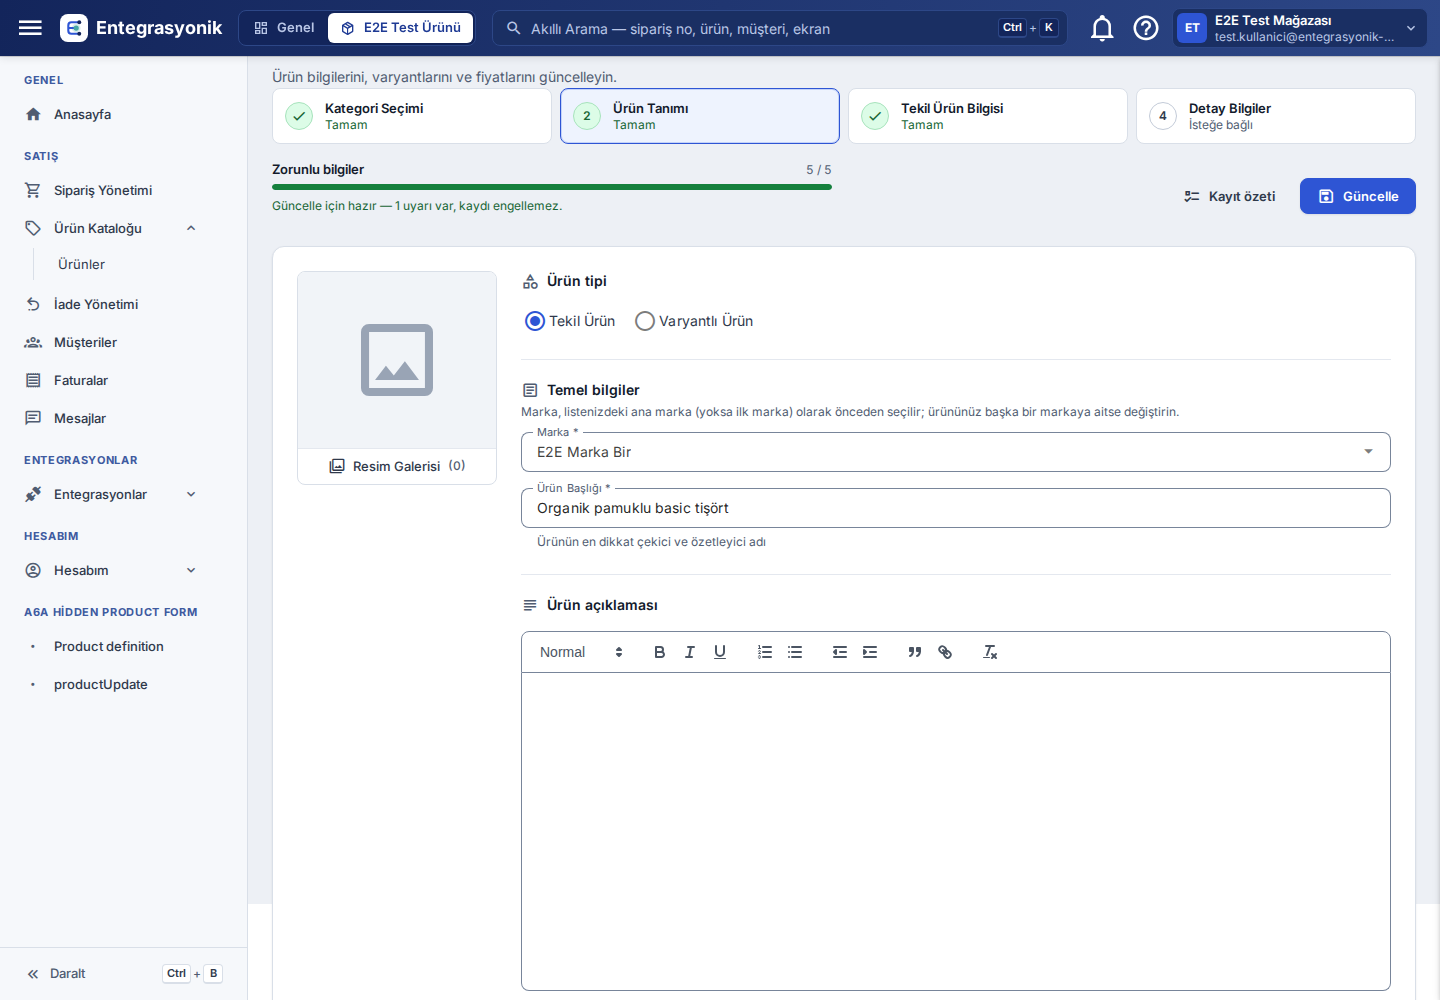
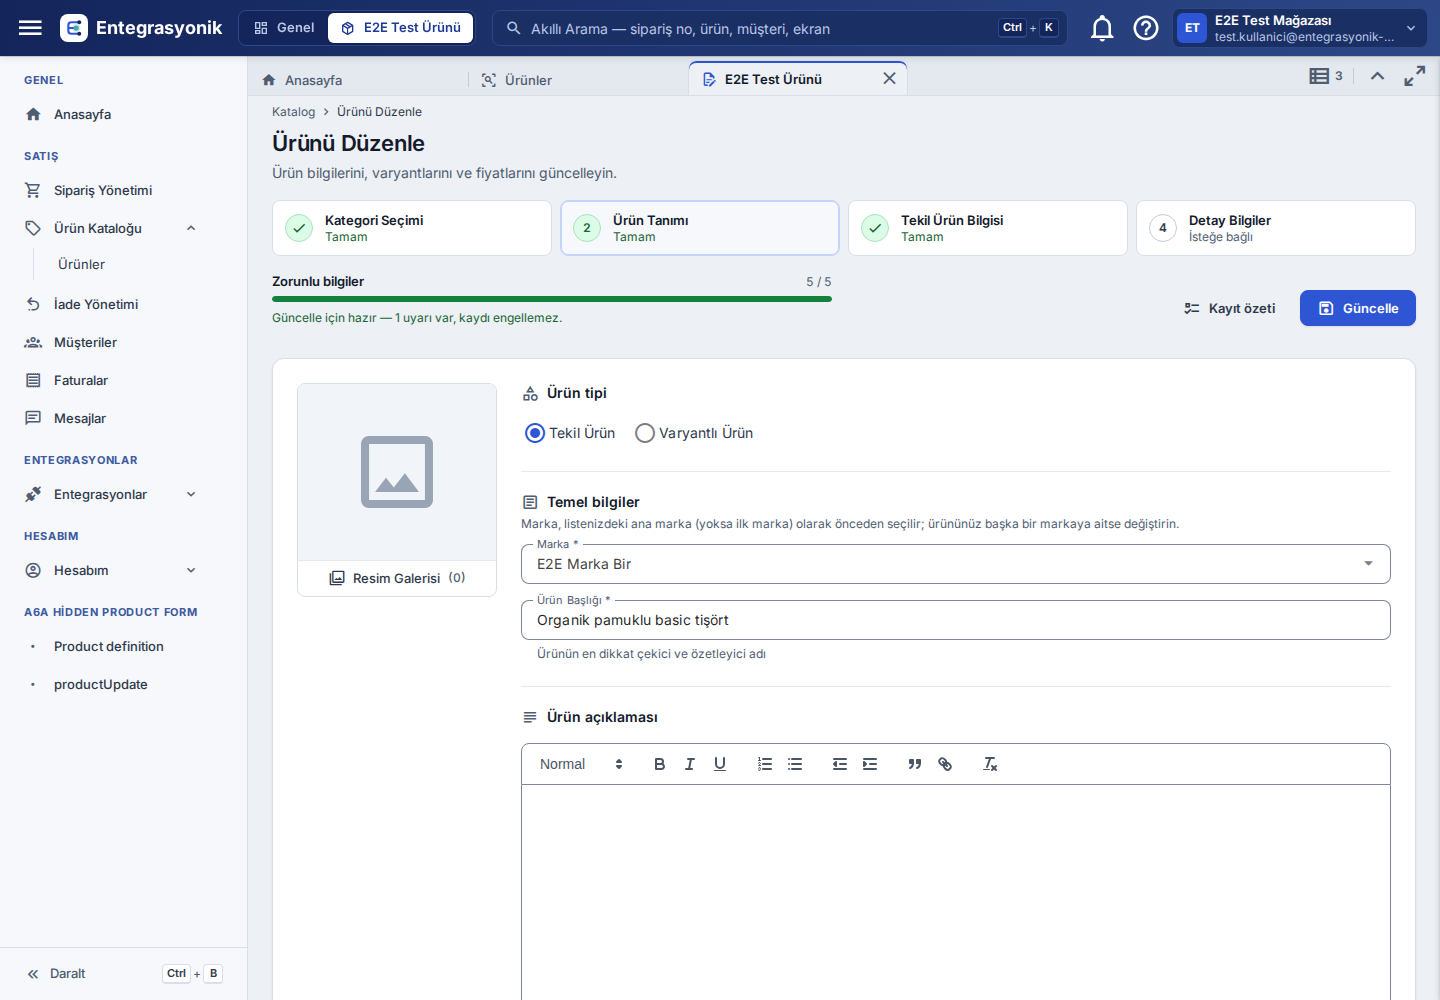
faz3-dsv2-a6a-cloud: PRODUCT_FORM_PROPOSAL.md (envanter, sorunlar, oneri, A/B listeleri) + after goruntuleri 1440/390
Claude-Session: https://claude.ai/code/session_01WVbHza8DFAhXnYiDkb74cn

diff --git a/frontend/docs/PRODUCT_FORM_PROPOSAL.md b/frontend/docs/PRODUCT_FORM_PROPOSAL.md
@@ -1,0 +1,169 @@
+# Ürün ekleme/düzenleme akışı: envanter, sorunlar, öneri (A6a — `productform`)
+
+Tarih: 2026-09-30 · Kapsam: `ProductDefinitionView` (ekleme), `ProductUpdateView` (düzenleme) ve altındaki adım bileşenleri.
+Yöntem: yalnız kod okuması (`frontend/src`, `backend/src` salt-okur) + Playwright ile alınan ekran görüntüleri.
+Backend'de görülmeyen/doğrulanmayan hiçbir şey "var" diye yazılmadı; belirsiz olanlar "doğrulanmadı" diye işaretlidir.
+
+Görüntüler (`frontend/docs/a6a-review/productform-<durum>-{before|after}-{1440|390}.png`):
+`ekle-kategori`, `ekle-tanim`, `ekle-tekil`, `ekle-detay`, `ekle-eksikler` (kaydet öncesi eksikler), `duzenle-acilis`, `duzenle-tanim`, `kanal-fiyatlari`.
+
+---
+
+## 1. Mevcut durum (değişiklikten önce)
+
+Akış: 4 adımlı `v-stepper` — **Kategori Seçimi → Ürün Tanımı → Tekil Ürün Bilgisi / Varyant Bilgileri → Detay Bilgiler**; Kaydet (düzenlemede Güncelle) düğmesi stepper başlığının sağında.
+
+- **Kilitler** (`editable`): 2. adım kategori ister; 3. adım `title.length > 3` (+ varyantlıda `maincode`); 4. adım `title.length > 2`. Form kuralı ise başlık için 2–160 karakter der — üç eşik birbirini tutmuyordu.
+- **Kaydet koşulu** (`isSaveDisabled`/`isUpdateDisabled`): `category && brand && variants.length>0 && her varyantta barcode+stockcode`. Neden kapalı olduğu hiçbir yerde yazmıyordu. Başlık, varyantlıda ana kod ve yinelenen kod bu koşulda yoktu; arka uç ise `Products.title` ve `Products.maincode` için `required`, `Variants.stockcode` için `required + unique`, `barcode` için `unique` diyor (bkz. §3).
+- **Kaydetme uçları:** ekleme `ProductService/saveProduct` (gövde: `{ productInfo }`, `images` çıkarılır; tekil üründe `maincode` istemcide üretilir, `variants[0].images = images.map(url)`), düzenleme `ProductService/updateProduct` (`{ productInfo }`; sonra `retrieveProduct`'tan gelen ürünle form yenilenir). Gövde şekli `e2e/specs/product-form-bodies.spec.ts` ile sabitlenmiştir ve **değişmedi**.
+- **Görsel dil:** `v-stepper` başlığı 390px'te taşıyordu: "Seçimi", "Tekil Ürün Bilgis…" kırpılıyor, **Kaydet düğmesi ekran dışında** kalıyordu (`ekle-eksikler-before-390.png`).
+
+---
+
+## 2. Alan envanteri
+
+Kısaltmalar: **Form** = arayüzdeki doğrulama kuralı (`composables/formrules.ts`) / Kaydet koşulu; **AU** = arka uç (şema `required`/`unique`, servis, kanal dönüştürücüsü). `Kanal` sütunu: genel = kanaldan bağımsız ürün verisi.
+
+### 2.1 Ürün düzeyi
+
+| # | Etiket | Model yolu | Adım / bileşen | Kanal | Zorunluluk — Form | Zorunluluk — AU | AU'da nereye |
+|---|---|---|---|---|---|---|---|
+| 1 | Ürün kategorisi (yaprak) | `productInfoForm.category` | 1 · `CategorySelectBoxLevelComponent` | genel (kanal kategorisi buradan türer) | Kaydet koşulunda; klasör seçilirse `undefined` olur | şemada `required:false` | `ProductService.saveProduct/updateProduct` → `Products.category` (`$set`) |
+| 2 | Ürün tipi (Tekil/Varyantlı) | `hasVariant` | 2 · `ProductInfoFormComponent` | genel | varsayılan Tekil; değişince `variants` sıfırlanır (ekleme) | şemada alan yok (`strict:false`); `updateProduct`: varyantlıda `stockcode/barcode = undefined`, tekilde `variants[0]`'dan | `Products.hasVariant` |
+| 3 | Ana kod | `maincode` | 2 (yalnız varyantlı) | genel | `stockcodeRules`: zorunlu, 2–32, `maxlength 32` | `Products.maincode` `required + unique`; `Variants.maincode` `required` | `Products.maincode`; her varyanta `maincode` kopyalanır. Tekilde ekleme ekranı kayıtta üretir |
+| 4 | Marka | `brand` | 2 · `BrandSelectBoxComponent` (`mandatory`) | genel (kanal marka eşleşmesi ayrı) | zorunlu; **bileşen ana markayı (yoksa ilk markayı) kendisi seçer** | `required:false` | `Products.brand` |
+| 5 | Ürün Başlığı | `title` | 2 | genel; kanalda `platforms[kod].mapping.title` ile ezilebilir | `titleRules`: zorunlu, 2–160 | `Products.title` `required` | `Products.title` |
+| 6 | Ürün açıklaması | `description` (HTML) | 2 · Quill | genel; kanalda `mapping.description` (arayüzü yok) | yok | `required:false` | `Products.description` |
+| 7 | Resim galerisi | `images` (sunucuda `Images`, `tempId`/`_id` ile) | 2 · `ProductImagesComponent` | genel | yok | yok | `ImageService`; `saveProduct` gövdesinden `images` çıkarılır; `updateProduct` geçici resimleri kalıcıya kopyalar (`copyTempImages`) |
+| 8 | Maksimum Satış Adedi | `maxPurchaseQuantity` | 4 · `ProductDetailsComponent` | genel | `length_0_16`, isteğe bağlı | şemada yok; dönüştürücülerde **okunmuyor** (grep) | `Products` (`strict:false`) |
+| 9 | Kargo Süresi | `shippingDuration` | 4 | genel | isteğe bağlı | şemada yok; dönüştürücülerde **okunmuyor** | aynı |
+| 10 | Desi | `desi` | 4 | genel; kanalda `mapping.desi` | isteğe bağlı | `Number`, varsayılan 0; Trendyol/Hepsiburada/Ideasoft okur | `Products.desi` |
+| 11 | Garanti Süresi | `warranty` | 4 | genel; kanalda `mapping.warranty` | isteğe bağlı | **şema alanı `warrantyDuration`** (varsayılan 0); Hepsiburada/Ideasoft `product.warranty` okur | `Products.warranty` (şema dışı) |
+| 12 | KDV | `taxPercentage` | 4 | genel; kanalda `mapping.taxPercentage` | 1–29 listesi | `Number`; tüm dönüştürücüler okur (varsayılan 20/18) | `Products.taxPercentage` |
+| — | (gövdede giden, arayüzü olmayan) | `tempId`, `prices.{costPrice,price,salePrice,marketPrice,manuelPricesFlag,competitivePricesFlag,competitive}`, `stock`, `shelf`, `prepDuration`, `warrantyDuration`, `subtitle`, `invoiceTitle` | — | — | — | `prices` şemada `{minSalePrice,maxSalePrice}`; `saveProduct` sonunda `updateProductStockAndPrices` bunu varyantlardan yeniden yazar | — |
+
+### 2.2 Varyant düzeyi — tekil ürün (`ProductSingleVariantComponent`, adım 3)
+
+| # | Etiket | Model yolu | Kanal | Form | AU | AU'da nereye |
+|---|---|---|---|---|---|---|
+| 13 | Stok Kodu | `variants[0].stockcode` | genel | `titleRules` (zorunlu, 2–160) + Kaydet koşulu | `Variants.stockcode` `required + unique(sparse)` | `Variants.stockcode`; ürüne `stockcode` kopyalanır (tekil) |
+| 14 | Barkod | `variants[0].barcode` | genel; Trendyol doğrulaması "Barkod eksik" der | `titleRules` + Kaydet koşulu | `unique(sparse)`, `required:false` | `Variants.barcode`; ürüne kopyalanır |
+| 15 | Satış Fiyatı | `variants[0].prices.salePrice` | genel; Trendyol: `> 0` ve `≤ piyasa fiyatı` | `mandatoryRule` (0 geçer) | `prices.salePrice` `required`, varsayılan 0 | `Variants.prices` |
+| 16 | Piyasa Fiyatı | `variants[0].prices.marketPrice` | genel | `mandatoryRule` (0 geçer) | `required`, varsayılan 0 | aynı |
+| 17 | Platform Bazında Fiyat | `prices.isPlatformBasedPrice`; `platforms[kod].prices.{salePrice,marketPrice}` (`PlatformPriceComponent`) | pazaryerleri + e-ticaret | `mandatoryRule` (0 geçer) | dönüştürücüler `platforms[kod].prices \|\| prices` kullanır; ürün min/max fiyatı buradan hesaplanır | `Variants.platforms` |
+| 18 | Stok Adedi | `variants[0].stock` | genel | **eski kural 2–160 karakter (yanlış)**; şimdi zorunlu + rakam | `default 0`; Trendyol: `< 0` reddedilir | `Variants.stock`; `Products.stock` toplam |
+| 19 | Raf | `variants[0].shelf` | genel | isteğe bağlı (**eski kural zorunluydu**) | varyant şemasında yok (`strict:false`) | `Variants.shelf` |
+| 20 | Ürün Özellikleri (düğme) | `variants[i].platforms[kod].attributes[özellikId] = { attributeName, attributeValue, attributeValueId }` | kanal-özel (Trendyol · Hepsiburada · N11 · Pazarama · Ideasoft) | kanal API'sinden gelen "Zorunlu" işareti; kaydı engellemez. Kayıtta `checkVariantAttributes` geçersiz değerleri siler | eksik zorunlu özellik kanal gönderiminde reddedilir (kanal API'si) | `Variants.platforms.<kod>.attributes` |
+
+### 2.3 Varyantlı ürün (`ProductVariantsComponent` — okundu, dokunulmadı)
+
+| # | Alan / işlem | Model yolu | Not |
+|---|---|---|---|
+| 21 | Varyant üretici | `variants[i].choices = [{ choiceId, choiceValueId }]` | kombinasyonlar kartezyen çarpımla; `variantHash` sunucuda (`maincode + choices`) — `unique` |
+| 22 | Izgara satırı | `stockcode`, `barcode`, `prices.salePrice/marketPrice/isPlatformBasedPrice`, `stock`, `shelf`, `images` | Kaydet koşulu her satırda stok kodu + barkod ister |
+| 23 | Toplu düzenleme | stok kodu/barkod üret; satış/piyasa fiyatı; platform bazlı fiyat; stok; raf; özellik; seçenek eşleştir; silme | `VariantService/batchProcessUpdate`, `batchProcessDelete` |
+| 24 | Varyant resimleri | `variants[i].images` (URL listesi) | `ProductVariantImagesComponent` |
+| 25 | Satır/ızgara kayıtları | `VariantService/updateVariants`, `addVariant`, `addVariants`, `deleteVariant` | Bu uçlar `Products` belgesindeki **gömülü `variants` dizisine** yazıyor; `ProductService` ise `Variants` koleksiyonuna yazıyor. Hangisinin canlı yol olduğu doğrulanmadı (bkz. B9) |
+
+### 2.4 Kanal-özel varyant bilgileri (`platforms[kod].mapping.*`, "Ürün Özellikleri" penceresi — `platformInfos/**`, okundu, dokunulmadı)
+
+Her kanal sekmesinde önce **genel** `VariantInfoComponent`, ardından kanala özel bileşen çıkar.
+
+| Kanal | Alan (etiket) | Model | AU dönüştürücüsü okuyor mu? |
+|---|---|---|---|
+| Tüm kanallar (genel panel) | Variant Başlık | `mapping.title` (kural `length_0_16`, `maxlength 20`) | Trendyol · Hepsiburada · Pazarama okur |
+| | Kargo Süresi | `mapping.shippingDuration` | okunmuyor (grep) |
+| | Desi | `mapping.desi` | Trendyol · Hepsiburada okur |
+| | Garanti Süresi | `mapping.warranty` | Hepsiburada okur |
+| | Maksimum Satılabilir Adet | `mapping.maxPurchaseQuantity` | okunmuyor |
+| | KDV | **`productInfoForm.taxPercentage`** (kanal panelinde ürün düzeyini yazar) | adaptörler `mapping.taxPercentage \|\| product.taxPercentage` okur; panel `mapping`'e yazmaz |
+| Trendyol | Kargo Firması | `mapping.shippingId` | dönüştürücüde okunmuyor |
+| | Teslimat Seçeneği | `mapping.fastDeliveryType` | yalnız eski davranış için yedek okunuyor; Trendyol Ağustos 2026'dan beri işlemiyor (kod yorumu) |
+| | *(arayüzü yok)* | `mapping.origin`, `deliveryDuration`, `shipmentAddressId`, `returningAddressId`, `locationBasedDelivery`, `description` | **dönüştürücü okuyor**: menşe (2 harf) 23.10.2026'dan sonra zorunlu |
+| Hepsiburada | *(boş bileşen)* | — | — |
+| N11 | Ön Tanımlı Kargo Şablonu | `mapping.shippingId` | okunmuyor; dönüştürücüde `shipmentTemplate: 'Default'` sabit |
+| Pazarama | Teslimat Şekli · Teslimat Şehirleri | `mapping.shippingId`, `mapping.cities` | okunmuyor |
+| Ideasoft | Stok Tipi · Hediye Durumu · Kargo Ücreti | `mapping.stockTypeLabel`, `hasGift`, `customShippingCost` | dönüştürücü `variant.stockTypeLabel` / `product.stockTypeLabel` okur (`mapping` altındakini değil); `hasGift: 0` sabit; kargo ücreti okunmuyor |
+| Bizimhesap | — (kanal-özel form bileşeni yok) | — | — |
+
+Ulaşılamayan / ölü: `ProductCompetitivePricesComponent` (`isCompetitivePricesDialog` hiç `true` olmaz → `prices.competitive*` alanlarına arayüzden erişilemez); `CategoryNameComponent` yalnız `TEST.vue`'da kullanılır.
+
+---
+
+## 3. Sorunlar
+
+| # | Sorun | Kanıt | Durum |
+|---|---|---|---|
+| S1 | **390px'te stepper kırpılıyor, Kaydet ekran dışında** | `ekle-eksikler-before-390.png` | Çözüldü (A1) |
+| S2 | Kaydet'in neden kapalı olduğu söylenmiyor; koşul gizli | `isSaveDisabled` | Çözüldü (A3) |
+| S3 | Gizli zorunlular: başlık (AU `required`), varyantlıda ana kod (AU `required+unique`), yinelenen stok kodu/barkod (AU `unique`) Kaydet koşulunda yoktu | Product.ts, Variant.ts | Çözüldü (A6) |
+| S4 | Adım kilidi eşikleri tutarsız (kural ≥2, varyant adımı >3, detay >2) | iki görünümde `editable` | Çözüldü (A6) |
+| S5 | Stok Adedi'ne 2–160 **karakter** kuralı: "5" gibi tek haneli stok hatalı görünüyordu; Raf "isteğe bağlı" denip zorunlu kurallıydı | `ProductSingleVariantComponent` | Çözüldü (A8) |
+| S6 | Başlık/ana kod/stok kodu/barkod/raf `type="tel"` (mobilde sayısal klavye, harf girilemiyor) | aynı | Çözüldü (A8) |
+| S7 | Marka sessizce ön seçili (`BrandSelectBoxComponent.onMounted`) | bileşen | Açıklama eklendi (A8); davranış B/karar |
+| S8 | Kanal fiyat penceresi, kanal kaydı olmayan varyantta **boş açılıp hata bildirimi veriyor** (`platforms[kod].prices` okunurken) | `kanal-fiyatlari-before-1440.png` | Çözüldü (A7) |
+| S9 | Kanal-özel alanlar karışık: genel panel her kanal sekmesinde; KDV kanal panelinde ürün düzeyini yazıyor; kanal başlığı 16/20 karakter; "Variant Başlık" yazımı; Hepsiburada paneli boş; kaydedilip dönüştürücüde okunmayan alanlar (§2.4); Trendyol menşe/teslimat süresi arayüzsüz, eski `fastDeliveryType` var | §2.4 | Öneri (A11, B6) — dosyalar kapsam dışı |
+| S10 | Çift tıklamada çift istek koruması yok | `saveProduct` | Çözüldü (`isSaving`) |
+| S11 | Hata geri bildirimi genel ("Bir şeyler ters gitti. Destek kodu…"); alan bilgisi yok | `kanal-fiyatlari-before` toast'ları | Öneri (B1) |
+| S12 | Sıralama: kod/fiyat/stok tek kartta; "Detay" adımının isteğe bağlı olduğu yazmıyor; kanal bilgileri form akışının dışında bir pencerede | görüntüler | Kısmen (A8); kanal adımı önerisi |
+| S13 | Form verisi tutulmuyor: `onDeactivated`/`destroy` formu sıfırlıyor (sekme kapanınca kayıp; sekme değiştirmede davranış doğrulanmadı) | görünümlerde `onDeactivated`, `destroy` | Öneri (A10) |
+| S14 | `warranty` (arayüz, adaptörler) ↔ `warrantyDuration` (şema, ilk değer) adı tutarsız | Product.ts | B5 |
+
+---
+
+## 4. Öneri
+
+### 4.1 Yapı
+
+Sihirbaz numaralı adımlar + her adımda durum: **Tamam · N eksik · İsteğe bağlı · Kilitli**. Adım kilidinin nedeni odaklanabilir ve okunabilir olmalı. Üstte tek bir "zorunlu bilgiler x/y" ilerlemesi; Kaydet'in neden kapalı olduğu düğmeyle ilişkili tek cümle; "Eksikleri göster" ile kayıt öncesi kontrol + özet.
+
+Önerilen bölüm sırası (bugünkü 4 adım korunur, 5. adım kanal verisi gelince eklenir):
+
+1. **Kategori** — yaprak seçimi.
+2. **Ürün tanımı** — Ürün tipi → Temel bilgiler (marka, başlık) → Resimler → Açıklama.
+3. **Kodlar, fiyat ve stok** — tekilde Kod bilgileri → Fiyat → Stok; varyantlıda üretici + ızgara.
+4. **Kanallar** *(öneri, henüz yok)* — her kanal katlanabilir bir bölüm: kanal işareti + "hazır / N eksik özellik" durumu; yalnız eksiği olan kanal açık gelir. Kanal başlığı, kargo, teslimat vb. burada; genel alanlar (KDV, desi) burada tekrarlanmaz.
+5. **Detay** — isteğe bağlı (cümleyle belirtilir).
+
+### 4.2 Kanal-özel alanların katlanması
+
+Kanal alanları (fiyat, özellik, kanal bilgisi) tek desen: `EkPlatformMark` başlıklı katlanabilir bölüm, başlıkta özet (fiyat / eksik sayısı), gövdede alanlar. Genel ürün alanları kanal sekmesine karışmaz; kanalda "ezme" gerekiyorsa açıkça "Bu kanal için farklı başlık" gibi yazılır.
+
+### 4.3 (A) Backend değişikliği GEREKTİRMEYEN
+
+| # | Öneri | Durum |
+|---|---|---|
+| A1 | `v-stepper` yerine DS-v2 sihirbaz şeridi (`ProductFormWizardBar`): numara/onay + başlık + durum; 390px'te 4 sütun, kırpma yok | **Uygulandı** |
+| A2 | Zorunlu bilgi ilerlemesi (x/y) + adım başına eksik sayısı — saf fonksiyonlar `useProductFormProgress.ts` (vitest ile) | **Uygulandı** |
+| A3 | Kaydet/Güncelle'nin neden kapalı olduğunu söyleyen cümle; `aria-describedby` ile düğmeye bağlı | **Uygulandı** |
+| A4 | "Eksikleri göster": eksik zorunlular + uyarılar + kayıt özeti; madde tıklanınca ilgili adıma gider ve alana odaklanır (`data-pf-field`) | **Uygulandı** |
+| A5 | Geri / Devam altbilgisi (klavye + mobil ardışık gezinti); sonraki adım kilitliyse nedeni yazılı | **Uygulandı** |
+| A6 | Gizli zorunlular Kaydet koşuluna: geçerli başlık, varyantlıda ana kod, yinelenen stok kodu/barkod; adım kilidi eşikleri tek kurala (başlık ≥2) | **Uygulandı** |
+| A7 | Kanal fiyatları: katlanabilir kanal bölümleri (`EkPlatformMark`); kanal kaydı yoksa hata yerine "Fiyat gir" | **Uygulandı** |
+| A8 | Alan düzeltmeleri: Stok Adedi sayı kuralı; Raf gerçekten isteğe bağlı; metin alanlarında `type="tel"` kaldırıldı; Detay adımı "tüm alanlar isteğe bağlı"; marka ön seçimi açıklaması | **Uygulandı** |
+| A9 | Engellemeyen uyarılar: satış fiyatı 0 · satış > piyasa (Trendyol doğrulaması reddeder) · resim yok | **Uygulandı** |
+| A10 | Taslak koruma (form verisini tarayıcıda tutma) | **Uygulanmadı — karar gerekli** (ürün verisi ticari veridir; ADR-0012 "form verisi yazılmaz" ilkesiyle çelişir). İstenirse: oturum başına, tenant+kullanıcı kapsamlı `sessionStorage`, kayıtta silinir |
+| A11 | `platformInfos/**` düzeltmeleri: genel panelin yalnız kanala özel alanları göstermesi; KDV'nin kanal panelinden çıkarılması ya da `mapping.taxPercentage`'e yazması; kanal başlığı sınırının 16/20'den kalkması; "Variant Başlık" yazımı; Hepsiburada boş panelin kaldırılması; Trendyol için `origin` ve `deliveryDuration` alanları, eski `fastDeliveryType`'ın kaldırılması (backend zaten okuyor) | **Uygulanmadı — dosyalar bu görevin kapsamı dışı** (ana oturum) |
+| A12 | Kanal başına "N zorunlu özellik eksik" göstergesi (mevcut `retrieveIntegrationCategoryChoices` verisiyle) ve sihirbazda Kanallar adımı | **Uygulanmadı** — `ProductVariantAttributesComponent` ve kategori-kanal eşleşme akışına bağlı |
+
+### 4.4 (B) Backend GEREKTİREN (yalnız öneri)
+
+| # | Gereken değişiklik | Kullanıcının vereceği karar |
+|---|---|---|
+| B1 | `saveProduct`/`updateProduct` doğrulama hatasında alan bazlı yanıt: `422 { errors: [{ field, code, message }] }` (title, maincode, stockcode, barcode, `variantHash` çakışması). Bugün istisna → genel hata bildirimi. Mesaj tablosu backend'den gelmeli | Hata kodları ve Türkçe metinlerin sahibi |
+| B2 | Kayıt öncesi kod çakışması sorgusu: `checkCodes { stockcodes[], barcodes[], excludeProductId }` → çakışanlar. Bugün yinelenen kod (başka üründe) yalnız kayıtta `unique` dizini ile patlıyor | Kayıt anında engelleyici mi, uyarı mı |
+| B3 | Kanal uygunluk ön kontrolü (salt-okur): taslak ürünü kanalın `validate()` kuralları ve zorunlu özellik/menşe kontrolleriyle değerlendirip kanal başına sonuç dönen uç | Kanal başına uyarı mı, kayıt engeli mi |
+| B4 | Sunucu taraflı taslak (`tempId` zaten resim için var; form verisi yok) | Saklama süresi, tenant başına sınır, KVKK/gizlilik değerlendirmesi |
+| B5 | `warranty` ↔ `warrantyDuration` (ve kullanılmayan `prepDuration`) adının tekleştirilmesi; şema + adaptörler + varsa veri taşıma | Kalıcı ad. **Veri taşıma DB'yi etkiler: yedek + insan onayı gerekir** |
+| B6 | Kanal alanlarının gerçek kullanımı: `shippingId`/`cities` (Trendyol, N11, Pazarama), `hasGift`, `customShippingCost`, `stockTypeLabel` (Ideasoft `mapping` altında değil `variant/product` düzeyinde okunuyor), N11 `shipmentTemplate: 'Default'` sabit, `shippingDuration`/`maxPurchaseQuantity` | Her alan için: dönüştürücü okusun mu, yoksa arayüzden kaldırılsın mı |
+| B7 | Kategori × kanal hazırlığı tek çağrıda: `CategoryService/getChannelReadiness { categoryId }` → kanal başına eşleşme durumu + zorunlu özellik sayısı (bugün kanal başına ayrı ayrı çekiliyor) | Kanallar adımı için gerekli mi |
+| B8 | `saveProduct` atomikliği: ürün `upsert` sonra varyant `insertMany` ayrı adımlar; ikincisi başarısızsa yarım kayıt kalabilir (koddan çıkarım, doğrulanmadı) → işlem/transaction veya geri alma | Yarım kayıt politikası |
+| B9 | `VariantService.updateVariants/addVariant` gömülü `variants` dizisine, `ProductService` `Variants` koleksiyonuna yazıyor; canlı yolun netleştirilmesi/eski yolun kaldırılması | Hangisi kalıcı |
+
+---
+
+## 5. Bu turda uygulananların dosya haritası
+
+- Yeni: `components/productDefinitions/crud/ProductFormWizardBar.vue`, `ProductFormStepFooter.vue`, `composables/useProductFormProgress.ts` (saf hesap), `composables/productFormFocus.ts` (alana odak).
+- Değişen: `ProductDefinitionView.vue`, `ProductUpdateView.vue` (şerit + altbilgi + `isSaving`; kaydetme gövdeleri aynı; `<temnplate>` yazım hatası giderildi, varyant adımı `pdv-step-variants` blok sarmalayıcısı, `pdv-variants` sınıfları ve prop/emit'ler aynen), `ProductInfoFormComponent.vue`, `ProductSingleVariantComponent.vue`, `ProductDetailsComponent.vue`, `PlatformPriceComponent.vue`.
+- Testler: `tests/product-form-progress.test.ts` (vitest, 23), `e2e/specs/product-form-wizard.spec.ts` (şerit, panel, odak, 390px, axe), inceleme: `e2e/specs/a6a-review-productform.spec.ts` (`A6A_REVIEW=1`).
